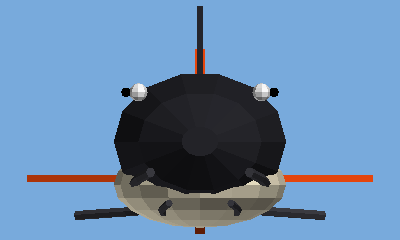
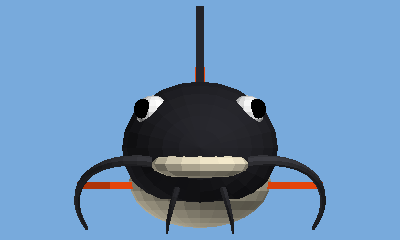
Redtail model: rounder body, friendly eyes, cream lip, rounded fins, tapered whiskers
Claude-Session: https://claude.ai/code/session_01NCr5QFu6v39LfjSbhU1WHF

Changed region(s): [[0.06, 0.0292, 0.93, 0.9625], [0.48, 0.9333, 0.51, 0.9917]]

diff --git a/Core/src/Shapes/RedtailModel.cs b/Core/src/Shapes/RedtailModel.cs
@@ -1,8 +1,15 @@
-using System;
 using System.Collections.Generic;
 
 namespace WobblyMods.Core.Shapes
 {
+    /// <summary>
+    /// Skylar's redtail catfish, made in code from the shape library (no Unity kit needed): broad round head,
+    /// dark back, cream belly and lower lip, bright orange-red forked tail, whiskers. Length exactly 1 along Z:
+    /// nose at z = +0.5, tail tip at z = -0.5, centered on X, belly down. First draft by the local worker (job 512);
+    /// rounded out by the PM with the preview renderer.
+    /// Outlines for fins are drawn in XY and turned with yaw 90, which maps outline x to -Z (so x = distance
+    /// toward the tail) and the slab's thickness to X.
+    /// </summary>
     public static class RedtailModel
     {
         public static readonly Rgb Body = new Rgb(40, 40, 46);
@@ -15,232 +22,84 @@ namespace WobblyMods.Core.Shapes
         public static List<ColoredMesh> Build()
         {
             var parts = new List<ColoredMesh>();
+            V3 one = new V3(1f, 1f, 1f);
 
-            // 1. Body: Tube along Z from nose (z=0.5) to tail base (z=-0.3).
-            // Radii: 0.03 at z=0.5, 0.1 at z=0.42, 0.14 at z=0.25, tapering to 0.04 at z=-0.3.
-            var bodyPath = new List<V3> {
-                new V3(0f, 0f, 0.5f),
-                new V3(0f, 0f, 0.42f),
-                new V3(0f, 0f, 0.25f),
-                new V3(0f, 0f, 0.1f),
-                new V3(0f, 0f, -0.1f),
-                new V3(0f, 0f, -0.3f)
-            };
-            var bodyRadii = new List<float> { 0.03f, 0.1f, 0.14f, 0.12f, 0.06f, 0.04f };
-            var bodyMesh = Shapes.Tube(bodyPath, bodyRadii, 14);
-            // Flatten Y by 0.8 to make it broader/flat-headed look
-            var bodyTransformed = bodyMesh.Transformed(new V3(1f, 0.8f, 1f), 0f, 0f, V3.Zero);
-            parts.Add(new ColoredMesh(bodyTransformed, Body));
+            // Body: a smooth tube, rounded nose, broad head, tapering to the tail. Slightly flattened.
+            float[] z = { 0.5f, 0.49f, 0.47f, 0.44f, 0.40f, 0.34f, 0.26f, 0.16f, 0.05f, -0.06f, -0.16f, -0.25f, -0.32f };
+            float[] r = { 0f, 0.045f, 0.08f, 0.11f, 0.135f, 0.155f, 0.165f, 0.16f, 0.14f, 0.115f, 0.085f, 0.06f, 0.045f };
+            var path = new List<V3>();
+            var radii = new List<float>();
+            for (int i = 0; i < z.Length; i++) { path.Add(new V3(0f, 0f, z[i])); radii.Add(r[i]); }
+            parts.Add(new ColoredMesh(Shapes.Tube(path, radii, 24).Transformed(new V3(1f, 0.85f, 1f), 0f, 0f, V3.Zero), Body));
 
-            // 2. Belly: Ellipsoid under the front two-thirds.
-            // Sticking out below and slightly to sides. Center around z=0.15, y=-0.1.
-            // Slightly wider than the head and tucked up under it, so a cream band shows low on the sides and below.
-            var bellyMesh = Shapes.Ellipsoid(new V3(0.14f, 0.07f, 0.25f), 16, 10);
-            var bellyTransformed = bellyMesh.Transformed(new V3(1f, 1f, 1f), 0f, 0f, new V3(0f, -0.07f, 0.15f));
-            parts.Add(new ColoredMesh(bellyTransformed, Belly));
+            // Cream belly under the front two thirds, and the cream lower lip.
+            parts.Add(new ColoredMesh(Shapes.Ellipsoid(new V3(0.15f, 0.1f, 0.3f), 24, 14).Transformed(one, 0f, 0f, new V3(0f, -0.07f, 0.13f)), Belly));
+            parts.Add(new ColoredMesh(Shapes.Ellipsoid(new V3(0.105f, 0.035f, 0.07f), 16, 8).Transformed(one, 0f, 0f, new V3(0f, -0.035f, 0.435f)), Belly));
 
-            // 3. Tail fin: Extrude of a forked outline in XY, then turn with yaw 90.
-            // Outline in XY: x is length along fish (mapped to -Z after yaw), y is height.
-            // Must reach from z=-0.28 to z=-0.5.
-            // In XY plane before rotation: x corresponds to distance from tail base.
-            // Tail base is at z=-0.3. Tip at z=-0.5. So length along fish axis is 0.2.
-            // Let's define outline in local X (along body) and Y (height).
-            // Points: (0.28, -0.02), (0.5, -0.15), (0.44, 0.0), (0.5, 0.15), (0.28, 0.02)
-            // After yaw 90: X becomes Z' = -X_local? No.
-            // Transformed(..., 90f, ...) description: "yaw 90 turns +Z into +X".
-            // Standard Yaw about Y: x' = x*cos(y) + z*sin(y), z' = -x*sin(y) + z*cos(y).
-            // If we have a point (x, 0, z) in local space.
-            // We want the "length" of the fin (which is along local X in the outline definition) to become Z in world space?
-            // The prompt says: "make the outline in XY (x is the length along the fish...), then turn it with Transformed(..., 90f...) so x becomes -Z".
-            // Let's check Transformed logic.
-            // R_yaw * [x, y, z]^T.
-            // If we want local X to map to world -Z:
-            // World Z = -local X.
-            // From matrix: z' = -sy*x + cy*z. If sy=1 (yaw 90), z' = -x. Correct.
-            // So local X becomes -Z. Local Y stays Y. Local Z becomes X.
-            // The outline is in XY plane (local Z=0).
-            // So after rotation: World X = local Z * sy = 0? No, wait.
-            // x' = cy*x + sy*z. If z=0, x' = cy*x. At yaw 90, cy=0. So x'=0.
-            // This means the fin would be flat against the YZ plane at X=0?
-            // The prompt says "thickness becomes X".
-            // Extrude creates a slab from z=-t/2 to z=t/2 in local space.
-            // Local Z becomes World X (since x' = sy*z = 1*z = z).
-            // So the thickness is along World X. This matches "sticking out to +/-X" if we offset it?
-            // No, the tail fin is at the back of the fish, centered on X=0.
-            // So local Z (thickness) becomes World X. The fin lies in Y-Z plane.
-            // Local X (length) becomes World -Z.
-            // Let's verify coordinates.
-            // Outline points (x_out, y_out, 0).
-            // After yaw 90:
-            // W_X = x_out * 0 + z_local * 1 = 0? Wait.
-            // Matrix row 0: [cy, 0, sy]. With yaw 90: [0, 0, 1].
-            // So W_X = z_local.
-            // Matrix row 2: [-sy, 0, cy]. With yaw 90: [-1, 0, 0].
-            // So W_Z = -x_out.
-            // The outline X (length) maps to -Z.
-            // The outline Y (height) maps to Y.
-            // The Extrude thickness (local Z) maps to W_X.
-            // This works perfectly for a tail fin centered at X=0.
-            
-            var tailOutline = new List<V3> {
-                new V3(0.28f, -0.02f, 0f),
-                new V3(0.5f, -0.15f, 0f),
-                new V3(0.44f, 0.0f, 0f),
-                new V3(0.5f, 0.15f, 0f),
-                new V3(0.28f, 0.02f, 0f)
-            };
-            // Centroid check: X avg = (0.28+0.5+0.44+0.5+0.28)/5 = 2.0/5 = 0.4. Y avg approx 0.
-            // Star-shaped around centroid? Yes, convex-ish forked shape.
-            var tailMesh = Shapes.Extrude(tailOutline, 0.015f);
-            // Apply yaw 90 to orient it correctly along the fish's Z axis.
-            // The extruded mesh is in local XY (thickness along Z).
-            // We want thickness along World X.
-            // Transformed with yaw 90: Local Z -> World X. Correct.
-            // Local X -> World -Z.
-            // The outline X range was 0.28 to 0.5.
-            // So World Z range is -0.5 to -0.28. This matches the requirement (tail tip at -0.5).
-            var tailTransformed = tailMesh.Transformed(new V3(1f, 1f, 1f), 90f, 0f, V3.Zero);
-            parts.Add(new ColoredMesh(tailTransformed, Tail));
+            // Tail fin: forked, with rounded lobes.
+            parts.Add(Fin(Tail, 0.02f,
+                0.26f, -0.035f, 0.36f, -0.12f, 0.44f, -0.17f, 0.49f, -0.165f, 0.5f, -0.13f, 0.47f, -0.06f, 0.44f, 0f,
+                0.47f, 0.06f, 0.5f, 0.13f, 0.49f, 0.165f, 0.44f, 0.17f, 0.36f, 0.12f, 0.26f, 0.035f));
 
-            // 4. Back fin (dorsal): Extrude of rounded triangle on top of body around z=0.0.
-            // Outline in XY (x along length, y height).
-            // Triangle shape: base at x=0, tip at x=0.2? Or symmetric?
-            // "Rounded triangle". Let's make a small fin.
-            // Outline in XY: x along the fish (yaw 90 turns +x into -Z), y is up. A swept-back triangle
-            // centred on z = 0 (x from -0.15 to 0.15 becomes z from +0.15 to -0.15) whose base sits in the back.
-            var dorsalOutline = new List<V3> {
-                new V3(-0.15f, 0.06f, 0f),
-                new V3(0.05f, 0.22f, 0f),   // tip, swept back toward the tail
-                new V3(0.15f, 0.06f, 0f)
-            };
-            var dorsalMesh = Shapes.Extrude(dorsalOutline, 0.01f);
-            // Yaw 90: the thickness goes along X and the fin lies in the Y-Z plane, standing on the back.
-            var dorsalTransformed = dorsalMesh.Transformed(new V3(1f, 1f, 1f), 90f, 0f, V3.Zero);
-            parts.Add(new ColoredMesh(dorsalTransformed, Body));
+            // Back fin (rounded, swept back), and the small red fin behind it.
+            parts.Add(Fin(Body, 0.016f,
+                -0.12f, 0.1f, -0.08f, 0.2f, -0.02f, 0.27f, 0.05f, 0.3f, 0.1f, 0.28f, 0.13f, 0.2f, 0.14f, 0.1f));
+            parts.Add(Fin(Tail, 0.014f,
+                0.2f, 0.04f, 0.23f, 0.11f, 0.28f, 0.13f, 0.32f, 0.1f, 0.33f, 0.04f));
 
-            // Small Tail-colored fin behind it (z -0.2).
-            var analOutline = new List<V3> {
-                new V3(0f, 0.04f, 0f),
-                new V3(0.1f, 0.15f, 0f),
-                new V3(0.2f, 0.04f, 0f)
-            };
-            var analMesh = Shapes.Extrude(analOutline, 0.01f);
-            // Offset to z=-0.2 (which is local x=0.2 in the extruded mesh before rotation? No.)
-            // After yaw 90, local X becomes -Z.
-            // We want World Z = -0.2. So Local X should be 0.2.
-            // The outline X range is 0 to 0.2.
-            // So the fin will span World Z from -0.2 to 0? No, -0.2 to 0 is wrong direction.
-            // Local X=0 -> World Z=0. Local X=0.2 -> World Z=-0.2.
-            // So it spans z=0 to z=-0.2. We want it at z=-0.2.
-            // Let's shift the outline X values.
-            var analOutlineShifted = new List<V3> {
-                new V3(0.2f, 0.04f, 0f),
-                new V3(0.3f, 0.15f, 0f),
-                new V3(0.4f, 0.04f, 0f)
-            };
-            var analMeshShifted = Shapes.Extrude(analOutlineShifted, 0.01f);
-            // The small Tail-coloured fin sits on the back behind the dorsal fin (z from -0.2 to -0.4).
-            var analTransformed = analMeshShifted.Transformed(new V3(1f, 1f, 1f), 90f, 0f, V3.Zero);
-            // Actually, prompt says "smaller Tail-colored fin behind it (z -0.2)". It doesn't specify Y offset.
-            // Let's place it slightly below Z axis to look natural.
-            parts.Add(new ColoredMesh(analTransformed, Tail));
-
-            // 5. Side fins (pectoral): Just behind the head, sticking out to +X and -X.
-            // Head is around z=0.25. Behind means lower Z? Or higher Z?
-            // Nose is +0.5. Head center ~0.25. "Behind" usually means towards tail (lower Z).
-            // Let's place at z=0.1.
-            // Sticking out to +/-X.
-            // Build left and right separately with positive scale.
-            
-            // Fin shape: small triangle/quad in XY plane (x along body, y up).
-            // Flat fins sticking out sideways. Outline in XY: x is how far out, y is along the body
-            // (pitch 90 turns y into +Z and the thickness into the vertical). The base starts inside the
-            // head (x = 0 at the offset) and the tip is swept back toward the tail. The left one is built
-            // with mirrored coordinates, not a negative scale.
-            var pecRightOutline = new List<V3> {
-                new V3(0f, 0.04f, 0f),
-                new V3(0f, -0.04f, 0f),
-                new V3(0.19f, -0.09f, 0f)
-            };
-            var pecLeftOutline = new List<V3> {
-                new V3(0f, 0.04f, 0f),
-                new V3(0f, -0.04f, 0f),
-                new V3(-0.19f, -0.09f, 0f)
-            };
-            var pecRightMesh = Shapes.Extrude(pecRightOutline, 0.01f);
-            var pecLeftMesh = Shapes.Extrude(pecLeftOutline, 0.01f);
-            var pecRight = pecRightMesh.Transformed(new V3(1f, 1f, 1f), 0f, 90f, new V3(0.09f, -0.06f, 0.1f));
-            parts.Add(new ColoredMesh(pecRight, Tail));
-            var pecLeft = pecLeftMesh.Transformed(new V3(1f, 1f, 1f), 0f, 90f, new V3(-0.09f, -0.06f, 0.1f));
-            parts.Add(new ColoredMesh(pecLeft, Tail));
-
-            // 6. Whiskers (barbels): 2 long from mouth corners, 2 short under chin.
-            // Mouth at nose tip z=0.5. Corners at x=+/-0.08, y=-0.05?
-            // Sweeping out and back.
-            
-            // Long whisker Right: Start (0.08, -0.05, 0.45), End (-0.2, -0.1, -0.3)
-            var longWhiskerRightPath = Shapes.Bezier(
-                new V3(0.08f, -0.05f, 0.45f),
-                new V3(0.15f, -0.08f, 0.2f),
-                new V3(0.1f, -0.1f, -0.1f),
-                new V3(-0.2f, -0.12f, -0.3f),
-                10
-            );
-            var longWhiskerRightRadii = new List<float>(new float[longWhiskerRightPath.Count]);
-            for(int i=0; i<longWhiskerRightRadii.Count; i++) longWhiskerRightRadii[i] = 0.008f;
-            var whisker1 = Shapes.Tube(longWhiskerRightPath, longWhiskerRightRadii, 6);
-            parts.Add(new ColoredMesh(whisker1, Whisker));
-
-            // Long whisker Left: Mirror X.
-            var longWhiskerLeftPath = new List<V3>();
-            foreach(var p in longWhiskerRightPath) {
-                longWhiskerLeftPath.Add(new V3(-p.X, p.Y, p.Z));
+            // Side fins: rounded paddles lying flat, just behind the head. Built separately, never mirrored by scale.
+            for (int s = -1; s <= 1; s += 2)
+            {
+                var outline = new List<V3>
+                {
+                    new V3(0f, 0.05f, 0f), new V3(0.09f * s, 0.06f, 0f), new V3(0.15f * s, 0.02f, 0f),
+                    new V3(0.16f * s, -0.05f, 0f), new V3(0.11f * s, -0.1f, 0f), new V3(0f, -0.05f, 0f)
+                };
+                parts.Add(new ColoredMesh(Shapes.Extrude(outline, 0.014f).Transformed(one, 0f, 90f, new V3(0.1f * s, -0.08f, 0.15f)), Tail));
             }
-            var whisker2 = Shapes.Tube(longWhiskerLeftPath, longWhiskerRightRadii, 6);
-            parts.Add(new ColoredMesh(whisker2, Whisker));
 
-            // Short whiskers under chin (z=0.45, y=-0.1).
-            var shortWhiskerRightPath = Shapes.Bezier(
-                new V3(0.05f, -0.1f, 0.45f),
-                new V3(0.08f, -0.12f, 0.3f),
-                new V3(0.06f, -0.12f, 0.2f),
-                new V3(-0.05f, -0.11f, 0.1f),
-                8
-            );
-            var shortRadii = new List<float>(new float[shortWhiskerRightPath.Count]);
-            for(int i=0; i<shortRadii.Count; i++) shortRadii[i] = 0.006f;
-            var whisker3 = Shapes.Tube(shortWhiskerRightPath, shortRadii, 6);
-            parts.Add(new ColoredMesh(whisker3, Whisker));
-
-            var shortWhiskerLeftPath = new List<V3>();
-            foreach(var p in shortWhiskerRightPath) {
-                shortWhiskerLeftPath.Add(new V3(-p.X, p.Y, p.Z));
+            // Whiskers: two long ones sweeping out and back from the mouth corners, two short ones under the chin.
+            for (int s = -1; s <= 1; s += 2)
+            {
+                parts.Add(new ColoredMesh(Barbel(0.012f, 14,
+                    new V3(0.1f * s, -0.03f, 0.44f), new V3(0.25f * s, -0.01f, 0.42f),
+                    new V3(0.29f * s, -0.1f, 0.22f), new V3(0.24f * s, -0.17f, 0.02f)), Whisker));
             }
-            var whisker4 = Shapes.Tube(shortWhiskerLeftPath, shortRadii, 6);
-            parts.Add(new ColoredMesh(whisker4, Whisker));
+            for (int s = -1; s <= 1; s += 2)
+            {
+                parts.Add(new ColoredMesh(Barbel(0.008f, 8,
+                    new V3(0.04f * s, -0.06f, 0.44f), new V3(0.06f * s, -0.12f, 0.43f),
+                    new V3(0.07f * s, -0.16f, 0.38f), new V3(0.07f * s, -0.18f, 0.32f)), Whisker));
+            }
 
-            // 7. Eyes: Small white Ellipsoids high on each side of the head.
-            // Head center z=0.25. Eyes at z=0.3? High Y.
-            var eyeMesh = Shapes.Ellipsoid(new V3(0.015f, 0.015f, 0.02f), 8, 6);
-            
-            // Right Eye
-            var eyeRight = eyeMesh.Transformed(new V3(1f, 1f, 1f), 0f, 0f, new V3(0.1f, 0.08f, 0.3f));
-            parts.Add(new ColoredMesh(eyeRight, EyeWhite));
-            
-            // Left Eye
-            var eyeLeft = eyeMesh.Transformed(new V3(1f, 1f, 1f), 0f, 0f, new V3(-0.1f, 0.08f, 0.3f));
-            parts.Add(new ColoredMesh(eyeLeft, EyeWhite));
-
-            // Pupils: Black, slightly further out (larger X).
-            var pupilMesh = Shapes.Ellipsoid(new V3(0.008f, 0.008f, 0.01f), 6, 4);
-            
-            var pupilRight = pupilMesh.Transformed(new V3(1f, 1f, 1f), 0f, 0f, new V3(0.12f, 0.08f, 0.3f));
-            parts.Add(new ColoredMesh(pupilRight, Pupil));
-
-            var pupilLeft = pupilMesh.Transformed(new V3(1f, 1f, 1f), 0f, 0f, new V3(-0.12f, 0.08f, 0.3f));
-            parts.Add(new ColoredMesh(pupilLeft, Pupil));
+            // Eyes: big and friendly, high on each side of the head.
+            for (int s = -1; s <= 1; s += 2)
+            {
+                parts.Add(new ColoredMesh(Shapes.Ellipsoid(new V3(0.036f, 0.036f, 0.036f), 14, 8).Transformed(one, 0f, 0f, new V3(0.1f * s, 0.075f, 0.37f)), EyeWhite));
+            }
+            for (int s = -1; s <= 1; s += 2)
+            {
+                parts.Add(new ColoredMesh(Shapes.Ellipsoid(new V3(0.02f, 0.022f, 0.02f), 10, 6).Transformed(one, 0f, 0f, new V3(0.12f * s, 0.082f, 0.388f)), Pupil));
+            }
 
             return parts;
+        }
+
+        /// <summary>A flat fin standing in the Y-Z plane. Pairs are (distance toward the tail, height).</summary>
+        private static ColoredMesh Fin(Rgb color, float thickness, params float[] xy)
+        {
+            var outline = new List<V3>();
+            for (int i = 0; i + 1 < xy.Length; i += 2) outline.Add(new V3(xy[i], xy[i + 1], 0f));
+            return new ColoredMesh(Shapes.Extrude(outline, thickness).Transformed(new V3(1f, 1f, 1f), 90f, 0f, V3.Zero), color);
+        }
+
+        /// <summary>A whisker: a tube along a Bezier curve, tapering to a third of its width.</summary>
+        private static ShapeMesh Barbel(float radius, int steps, V3 p0, V3 p1, V3 p2, V3 p3)
+        {
+            List<V3> path = Shapes.Bezier(p0, p1, p2, p3, steps);
+            var radii = new List<float>();
+            for (int i = 0; i < path.Count; i++) radii.Add(radius * (1f - 0.65f * i / (path.Count - 1)));
+            return Shapes.Tube(path, radii, 8);
         }
     }
 }
